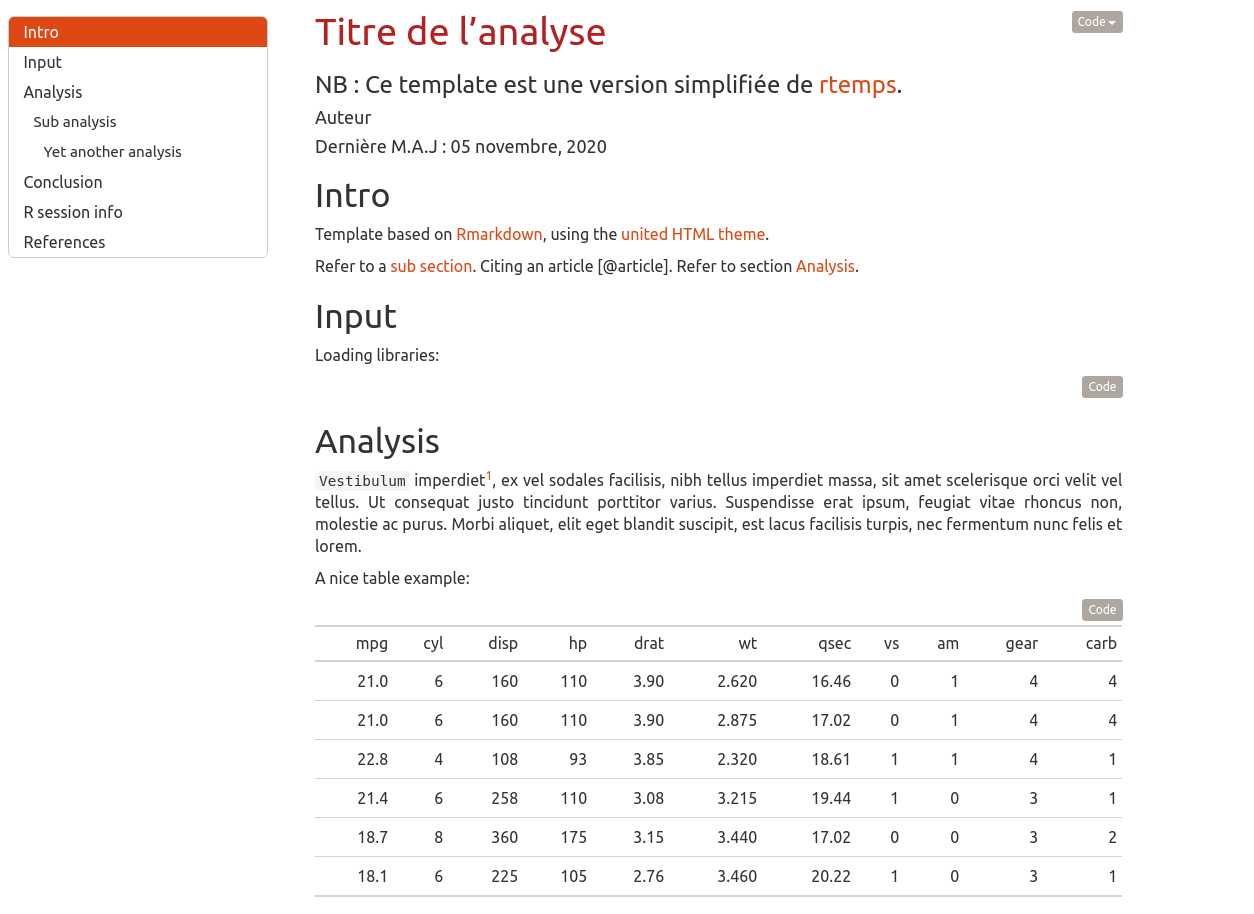
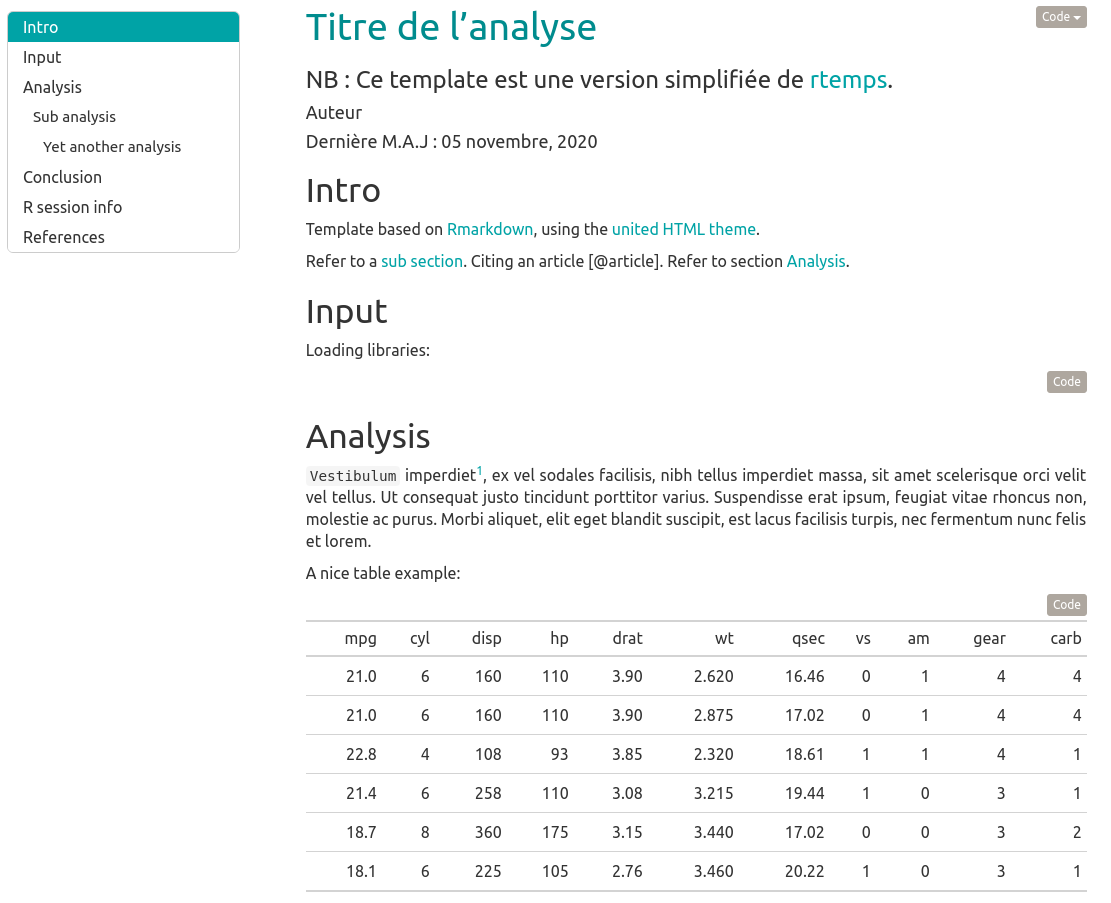
modified analysis report link colors

diff --git a/inst/rmarkdown/templates/analysis_report/skeleton/styles/analysis_report.css b/inst/rmarkdown/templates/analysis_report/skeleton/styles/analysis_report.css
@@ -6,9 +6,18 @@ body {
   text-align: justify;
 }
 
+a:link {
+  color: #00A3A6;
+}
+
 .title {
   font-size: 47px;
-  color: firebrick;
+  color: #008c8e;
+}
+
+.list-group-item.active, .list-group-item.active:hover, .list-group-item.active:focus {
+  background-color: #00A3A6;
+  border-color: #000000;
 }
 
 h1,h2,h3,h4,h5 {
